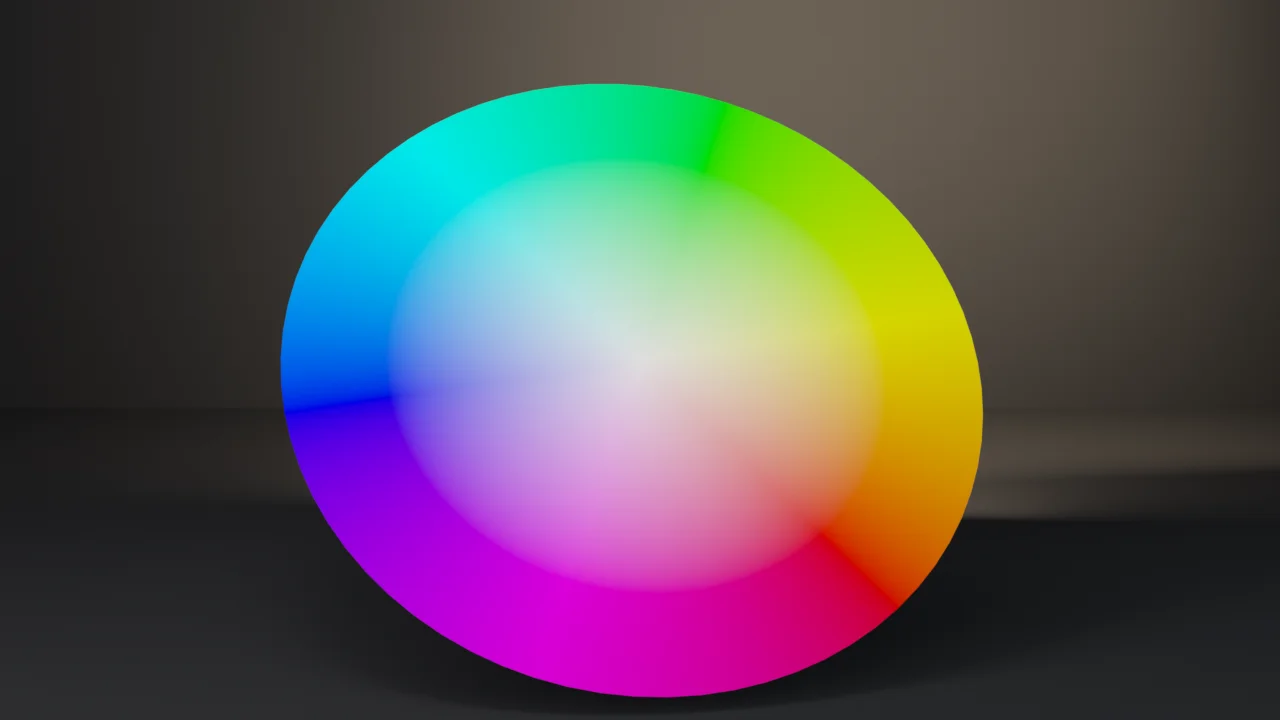
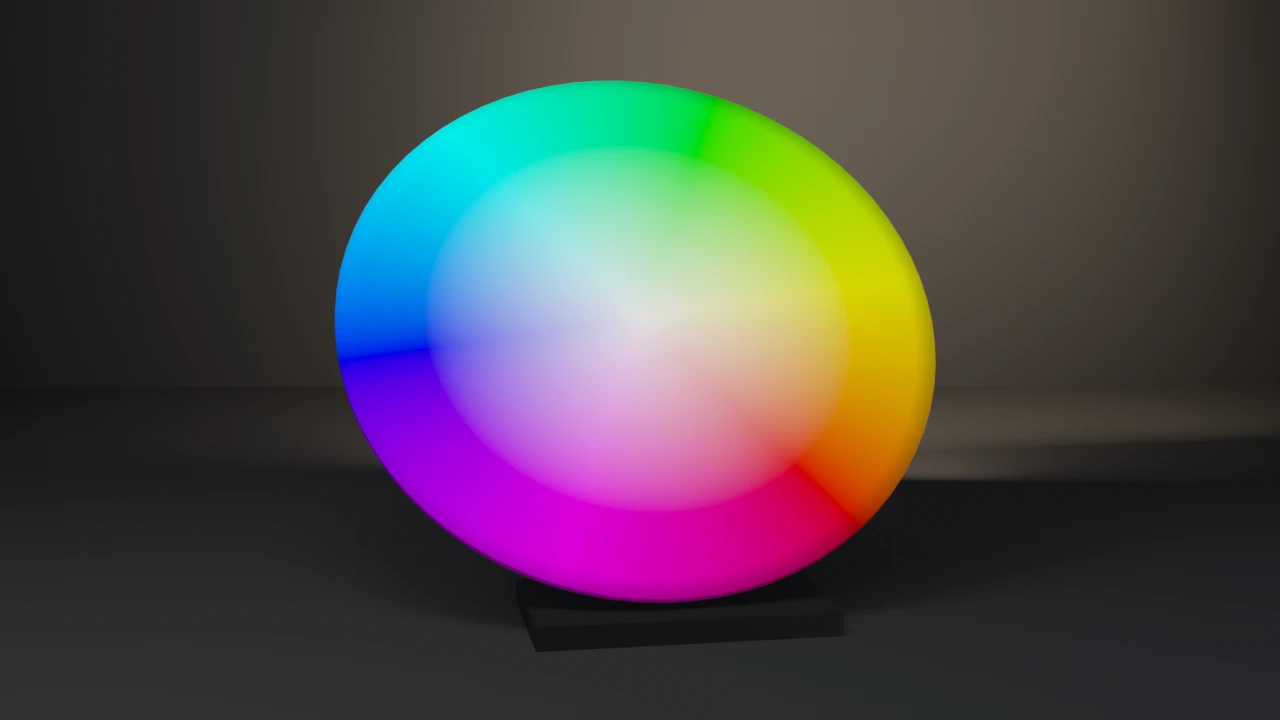
fix: color-attribute-wheel presentation, a board on a plinth
Render path only: the zero-thickness disc gets a Solidify body and rests
on a plinth with a strut, instead of hovering above the floor. Contract
and exit codes unchanged on 4.5.11, 5.1.2 and 5.2.1. Also regenerates the
gallery index for all four items.

diff --git a/docs/gallery/color-attribute-wheel/index.html b/docs/gallery/color-attribute-wheel/index.html
@@ -16,13 +16,13 @@
   <meta property="og:image" content="https://tmhsdigital.github.io/Blender-Developer-Tools/gallery/assets/color-attribute-wheel-hero.webp" />
   <meta property="og:image:width" content="1280" />
   <meta property="og:image:height" content="720" />
-  <meta property="og:image:alt" content="A disc painted with a full hue wheel that fades to white at the centre." />
+  <meta property="og:image:alt" content="A board painted with a full hue wheel that fades to white at the centre, leaning on a dark plinth." />
   <meta property="og:site_name" content="Blender Developer Tools" />
   <meta name="twitter:card" content="summary_large_image" />
   <meta name="twitter:title" content="color-attribute-wheel — Examples — Blender Developer Tools" />
   <meta name="twitter:description" content="The modern color-attributes API — mesh.color_attributes.new() on the CORNER domain, filled by expanding per-vertex HSV across face corners with foreach_get/foreach_set, then wired into a shader Attribute node." />
   <meta name="twitter:image" content="https://tmhsdigital.github.io/Blender-Developer-Tools/gallery/assets/color-attribute-wheel-hero.webp" />
-  <meta name="twitter:image:alt" content="A disc painted with a full hue wheel that fades to white at the centre." />
+  <meta name="twitter:image:alt" content="A board painted with a full hue wheel that fades to white at the centre, leaning on a dark plinth." />
   <style>
     /* fonts are deployed by the landing build (docs/fonts/) */
     @font-face { font-family: 'Barlow Condensed'; font-weight: 600; font-display: swap;
@@ -268,8 +268,8 @@
     <p>The modern color-attributes API — mesh.color_attributes.new() on the CORNER domain, filled by expanding per-vertex HSV across face corners with foreach_get/foreach_set, then wired into a shader Attribute node.</p>
   </header>
   <main id="main">
-    <button class="detail-hero" id="heroZoom" type="button" aria-label="View full size: A disc painted with a full hue wheel that fades to white at the centre.">
-      <img src="../assets/color-attribute-wheel-hero.webp" alt="A disc painted with a full hue wheel that fades to white at the centre." width="1280" height="720" />
+    <button class="detail-hero" id="heroZoom" type="button" aria-label="View full size: A board painted with a full hue wheel that fades to white at the centre, leaning on a dark plinth.">
+      <img src="../assets/color-attribute-wheel-hero.webp" alt="A board painted with a full hue wheel that fades to white at the centre, leaning on a dark plinth." width="1280" height="720" />
     </button>
     <p class="zoom-hint">Rendered headless by the example itself — click to zoom.</p>
     <div class="callout"><span class="tag">witnesses</span> CORNER-domain attributes are sized to loop count, not vertex count; the check asserts the sizing, that active_color points at it, and that the Attribute node is actually linked to Base Color, not just present.</div>
@@ -280,6 +280,8 @@
     <section class="detail-section md">
 <p>A runnable example that builds an HSV color wheel disc entirely with <code>bmesh</code> and colors it with <code>Mesh.color_attributes.new()</code> — the modern attributes API, not the deprecated <code>Mesh.vertex_colors</code> alias AI code keeps reaching for. It witnesses the domain trap that comes with it: a <code>CORNER</code>-domain attribute is sized to <code>len(mesh.loops)</code>, not <code>len(mesh.vertices)</code>, so per-vertex data has to be expanded across face corners before it is written. The material wires the same attribute into a Shader <code>Attribute</code> node (<code>attribute_type=&#x27;GEOMETRY&#x27;</code>) feeding Base Color — the step AI code most often skips, leaving the mesh gray even when the attribute data is correct.</p>
 <p><strong>What it witnesses:</strong> a <code>FLOAT_COLOR</code> attribute on the <code>CORNER</code> domain, filled with one <code>foreach_get</code> (loop → vertex index) and one <code>foreach_set</code> (loop color), never a per-loop Python assignment. The check asserts the attribute is sized to the loop count and <em>not</em> the vertex count, that it is <code>color_attributes.active_color</code> (so a renderer or exporter actually picks it up), and that several probe loops match the closed-form HSV value for the vertex they reference. A separate check in the render path confirms the <code>Attribute</code> node is actually linked to Base Color, not just present in the node tree.</p>
+<h2>Staging</h2>
+<p>The disc is zero-thickness, and the still used to show it as a paper-thin oval hovering 8 cm above the floor. The render path now gives it a render-only Solidify body (5 cm) and stands it at the same 52° lean on a dark plinth, with a strut behind it, easel-style. The height is computed so the lowest point of the rim rests on the plinth. The mesh <code>check()</code> asserts is unchanged: the modifier is added after the check and only in the render path. Measured framing on 5.2.1: fill 0.794 y, every margin ≥ 0.094.</p>
 <h2>Run</h2>
 <pre><code># Cheap correctness check (no render) — the CI check:
 blender --background --python color_attribute_wheel.py --
@@ -326,6 +328,7 @@ check. Pass --output to also render a still:
 &quot;&quot;&quot;</span>
 <span class="k">import</span> bpy, bmesh, sys, os, math, colorsys, argparse
 <span class="k">from</span> array <span class="k">import</span> array
+<span class="k">from</span> mathutils <span class="k">import</span> Vector
 
 RINGS = <span class="n">14</span>
 SEGMENTS = <span class="n">72</span>
@@ -500,8 +503,54 @@ ATTR_NAME = <span class="s">&quot;Hue&quot;</span>
     <span class="c"># stand the disc up toward the camera like an easel: the wheel is the</span>
     <span class="c"># subject, so it should present nearly face-on and fill the frame instead</span>
     <span class="c"># of lying foreshortened on the floor.</span>
-    obj.location = (<span class="n">0.0</span>, <span class="n">0.0</span>, <span class="n">1.34</span>)
-    obj.rotation_euler = (math.radians(<span class="n">52</span>), <span class="n">0.0</span>, math.radians(<span class="n">10</span>))
+    <span class="c"># render-only: a Solidify body so the disc reads as a painted board, not</span>
+    <span class="c"># a zero-thickness sheet, resting on a dark plinth and propped from</span>
+    <span class="c"># behind by a strut, easel-style, instead of hovering above the floor.</span>
+    disc_t = <span class="n">0.05</span>
+    plinth_h = <span class="n">0.12</span>
+    tilt = math.radians(<span class="n">52</span>)
+    solid = obj.modifiers.new(<span class="s">&quot;Board&quot;</span>, <span class="s">&#x27;SOLIDIFY&#x27;</span>)
+    solid.thickness = disc_t
+    solid.offset = -<span class="n">1.0</span>
+    <span class="c"># lowest rim point sits R_OUTER * sin(tilt) below the centre, and the</span>
+    <span class="c"># board&#x27;s back face another disc_t * cos(tilt) below that</span>
+    obj.location = (<span class="n">0.0</span>, <span class="n">0.0</span>, plinth_h + R_OUTER * math.sin(tilt) + disc_t * math.cos(tilt))
+    obj.rotation_euler = (tilt, <span class="n">0.0</span>, math.radians(<span class="n">10</span>))
+
+    stand_mat = bpy.data.materials.new(<span class="s">&quot;Stand&quot;</span>)
+    stand_mat.use_nodes = <span class="k">True</span>
+    sb = stand_mat.node_tree.nodes[<span class="s">&quot;Principled BSDF&quot;</span>]
+    sb.inputs[<span class="s">&quot;Base Color&quot;</span>].default_value = (<span class="n">0.012</span>, <span class="n">0.012</span>, <span class="n">0.014</span>, <span class="n">1.0</span>)
+    sb.inputs[<span class="s">&quot;Roughness&quot;</span>].default_value = <span class="n">0.45</span>
+
+    <span class="k">def</span> stand_part(name, build):
+        me = bpy.data.meshes.new(name)
+        bm = bmesh.new()
+        <span class="k">try</span>:
+            build(bm)
+            bm.to_mesh(me)
+        <span class="k">finally</span>:
+            bm.free()
+        me.materials.append(stand_mat)
+        ob = bpy.data.objects.new(name, me)
+        scene.collection.objects.link(ob)
+        <span class="k">return</span> ob
+
+    bpy.context.view_layer.update()
+    mw = obj.matrix_world
+    rim_low = mw @ Vector((<span class="n">0.0</span>, -R_OUTER, <span class="n">0.0</span>))
+    plinth = stand_part(<span class="s">&quot;Plinth&quot;</span>, <span class="k">lambda</span> bm: bmesh.ops.create_cube(bm, size=<span class="n">1.0</span>))
+    plinth.scale = (<span class="n">1.5</span>, <span class="n">0.9</span>, plinth_h)
+    plinth.location = (rim_low.x, rim_low.y + <span class="n">0.25</span>, plinth_h / <span class="n">2.0</span>)
+    plinth.rotation_euler = (<span class="n">0.0</span>, <span class="n">0.0</span>, math.radians(<span class="n">10</span>))
+    <span class="c"># the strut runs from the board&#x27;s back, above centre, down to the plinth</span>
+    top = mw @ Vector((<span class="n">0.0</span>, <span class="n">0.45</span>, -disc_t))
+    foot = Vector((top.x, top.y + <span class="n">0.95</span>, plinth_h))
+    span = top - foot
+    strut = stand_part(<span class="s">&quot;Strut&quot;</span>, <span class="k">lambda</span> bm: bmesh.ops.create_cone(
+        bm, cap_ends=<span class="k">True</span>, segments=<span class="n">16</span>, radius1=<span class="n">0.035</span>, radius2=<span class="n">0.035</span>, depth=span.length))
+    strut.location = (top + foot) / <span class="n">2.0</span>
+    strut.rotation_euler = Vector((<span class="n">0.0</span>, <span class="n">0.0</span>, <span class="n">1.0</span>)).rotation_difference(span).to_euler()
 
     floor_me = bpy.data.meshes.new(<span class="s">&quot;Floor&quot;</span>)
     bm = bmesh.new()
@@ -550,13 +599,13 @@ ATTR_NAME = <span class="s">&quot;Hue&quot;</span>
     light(<span class="s">&quot;Wedge&quot;</span>, (<span class="n">2.0</span>, <span class="n">5.2</span>, <span class="n">3.6</span>), <span class="n">220.0</span>, <span class="n">6.0</span>, (<span class="n">1.0</span>, <span class="n">0.76</span>, <span class="n">0.5</span>), (-<span class="n">68</span>, <span class="n">0</span>, <span class="n">190</span>))
 
     aim = bpy.data.objects.new(<span class="s">&quot;Aim&quot;</span>, <span class="k">None</span>)
-    aim.location = obj.location
+    aim.location = obj.location - Vector((<span class="n">0.0</span>, <span class="n">0.0</span>, <span class="n">0.2</span>))
     scene.collection.objects.link(aim)
 
     cam_data = bpy.data.cameras.new(<span class="s">&quot;Cam&quot;</span>)
     cam_data.lens = <span class="n">50.0</span>
     cam = bpy.data.objects.new(<span class="s">&quot;Cam&quot;</span>, cam_data)
-    cam.location = (<span class="n">0.0</span>, -<span class="n">8.0</span>, <span class="n">2.4</span>)
+    cam.location = (<span class="n">0.0</span>, -<span class="n">9.4</span>, <span class="n">2.5</span>)
     con = cam.constraints.new(<span class="s">&#x27;TRACK_TO&#x27;</span>)
     con.target = aim
     con.track_axis = <span class="s">&#x27;TRACK_NEGATIVE_Z&#x27;</span>
@@ -618,7 +667,7 @@ ATTR_NAME = <span class="s">&quot;Hue&quot;</span>
   </main>
   <dialog class="lightbox" id="lightbox" aria-label="Full-size render">
     <button class="lightbox-close" type="button" autofocus>Close</button>
-    <img src="../assets/color-attribute-wheel-hero.webp" alt="A disc painted with a full hue wheel that fades to white at the centre." />
+    <img src="../assets/color-attribute-wheel-hero.webp" alt="A board painted with a full hue wheel that fades to white at the centre, leaning on a dark plinth." />
   </dialog>
   <footer>
     <div class="statusbar">

diff --git a/docs/gallery/index.html b/docs/gallery/index.html
@@ -387,7 +387,7 @@
       </article>
       <article class="card" data-tags="mesh performance">
         <a class="card-media" href="wave-displace/" tabindex="-1" aria-hidden="true">
-          <img src="assets/wave-displace-hero.webp" alt="A blue grid surface displaced into rolling sine-wave hills." loading="lazy" decoding="async" />
+          <img src="assets/wave-displace-hero.webp" alt="A blue tile whose top is a grid displaced into rolling sine-wave hills, standing on a dark studio floor." loading="lazy" decoding="async" />
         </a>
         <div class="card-body">
           <h2><a href="wave-displace/">wave-displace</a></h2>
@@ -508,7 +508,7 @@
       </article>
       <article class="card" data-tags="mesh materials attributes">
         <a class="card-media" href="color-attribute-wheel/" tabindex="-1" aria-hidden="true">
-          <img src="assets/color-attribute-wheel-hero.webp" alt="A disc painted with a full hue wheel that fades to white at the centre." loading="lazy" decoding="async" />
+          <img src="assets/color-attribute-wheel-hero.webp" alt="A board painted with a full hue wheel that fades to white at the centre, leaning on a dark plinth." loading="lazy" decoding="async" />
         </a>
         <div class="card-body">
           <h2><a href="color-attribute-wheel/">color-attribute-wheel</a></h2>
@@ -926,12 +926,12 @@
       </article>
       <article class="card" data-tags="mesh export showcase">
         <a class="card-media" href="wooden-barrel/" tabindex="-1" aria-hidden="true">
-          <img src="assets/wooden-barrel-hero.webp" alt="A wooden stave barrel bound by three metal hoops." loading="lazy" decoding="async" />
+          <img src="assets/wooden-barrel-hero.webp" alt="A wooden stave barrel bound by four iron hoops, its head made of boards." loading="lazy" decoding="async" />
         </a>
         <div class="card-body">
           <h2><a href="wooden-barrel/">wooden-barrel</a></h2>
-          <p class="teaches">A procedural wine-cask with croze-seated heads and chord-lofted hoops through UVs, bake, LOD, collider, and Unity glTF, asserting recomputed budgets rather than an API contract.</p>
-          <p class="witnesses"><span class="tag">witnesses</span> Recomputed: 7216 tris, two materials with 2512 wood and 1440 metal faces, UVs in 0..1 with zero AABB overlap, outer AABB 0.722×0.714×0.880 m, 20 grounded staves, hoop bite 0.003 m, head-croze gap 0.007 m, LOD ratios in band, convex collider 238 tris, non-empty glTF. --skip-decimate exits 9; --round-band exits 18 on the hoop-seat budget.</p>
+          <p class="teaches">A procedural wine-cask with boarded, croze-seated heads and chord-lofted hoops through UVs, bake, LOD, collider, and Unity glTF, asserting recomputed budgets rather than an API contract.</p>
+          <p class="witnesses"><span class="tag">witnesses</span> Recomputed: 7312 tris, two materials with 2584 wood and 1440 metal faces, UVs in 0..1 with zero AABB overlap, outer AABB 0.722×0.714×0.880 m, 20 grounded staves, hoop bite 0.003 m, head-croze gap 0.007 m, four boards per head with 1.5 mm seams, LOD ratios in band, convex collider 238 tris, non-empty glTF. --skip-decimate exits 9; --round-band exits 18 on the hoop-seat budget; --one-piece-head exits 17 on the head-board budget.</p>
           <a class="card-link" href="wooden-barrel/">View showcase piece<span class="sr-only"> wooden-barrel</span> <span aria-hidden="true">&rarr;</span></a>
         </div>
       </article>
@@ -1124,12 +1124,12 @@
       </article>
       <article class="card" data-tags="mesh export showcase">
         <a class="card-media" href="wooden-bucket/" tabindex="-1" aria-hidden="true">
-          <img src="assets/wooden-bucket-hero.webp" alt="A wooden stave bucket with metal hoops and a curved wooden bail handle." loading="lazy" decoding="async" />
+          <img src="assets/wooden-bucket-hero.webp" alt="A wooden stave bucket with three iron hoops and a twisted rope handle through iron ear rings." loading="lazy" decoding="async" />
         </a>
         <div class="card-body">
           <h2><a href="wooden-bucket/">wooden-bucket</a></h2>
-          <p class="teaches">A procedural coopered pail with a croze-seated floor, chord-lofted hoops, and a round bail through the ear rings through UVs, bake, LOD, collider, and Unity glTF, asserting recomputed budgets rather than an API contract.</p>
-          <p class="witnesses"><span class="tag">witnesses</span> Recomputed: 4872 tris, three materials with 1424 wood, 1020 metal, and 208 rope faces, UVs in 0..1 with zero AABB overlap, outer AABB 0.383×0.346×0.527 m, 16 grounded staves, hoop bite 0.0025 m, bail-ear gap 0.0013 m, LOD ratios in band, convex collider 302 tris, non-empty glTF. --skip-decimate exits 9; --float-handle exits 17 on the bail-ear budget.</p>
+          <p class="teaches">A procedural coopered pail with a boarded, croze-seated floor, chord-lofted hoops, and a three-strand rope bail through the ear rings through UVs, bake, LOD, collider, and Unity glTF, asserting recomputed budgets rather than an API contract.</p>
+          <p class="witnesses"><span class="tag">witnesses</span> Recomputed: 5458 tris, three materials with 1448 wood, 1020 metal, and 486 rope faces, UVs in 0..1 with zero AABB overlap, outer AABB 0.396×0.346×0.534 m, 16 grounded staves, hoop bite 0.0025 m, bail-ear gap 0.0011 m, three bottom boards, no rope vertex inside an ear plate, LOD ratios in band, convex collider 276 tris, non-empty glTF. --skip-decimate exits 9; --float-handle exits 17 on the bail-ear budget; --sunk-rope exits 17 on the rope-clearance budget.</p>
           <a class="card-link" href="wooden-bucket/">View showcase piece<span class="sr-only"> wooden-bucket</span> <span aria-hidden="true">&rarr;</span></a>
         </div>
       </article>

diff --git a/examples/color-attribute-wheel/color_attribute_wheel.py b/examples/color-attribute-wheel/color_attribute_wheel.py
@@ -23,6 +23,7 @@ check. Pass --output to also render a still:
 """
 import bpy, bmesh, sys, os, math, colorsys, argparse
 from array import array
+from mathutils import Vector
 
 RINGS = 14
 SEGMENTS = 72
@@ -197,8 +198,54 @@ def render_still(obj, path, engine):
     # stand the disc up toward the camera like an easel: the wheel is the
     # subject, so it should present nearly face-on and fill the frame instead
     # of lying foreshortened on the floor.
-    obj.location = (0.0, 0.0, 1.34)
-    obj.rotation_euler = (math.radians(52), 0.0, math.radians(10))
+    # render-only: a Solidify body so the disc reads as a painted board, not
+    # a zero-thickness sheet, resting on a dark plinth and propped from
+    # behind by a strut, easel-style, instead of hovering above the floor.
+    disc_t = 0.05
+    plinth_h = 0.12
+    tilt = math.radians(52)
+    solid = obj.modifiers.new("Board", 'SOLIDIFY')
+    solid.thickness = disc_t
+    solid.offset = -1.0
+    # lowest rim point sits R_OUTER * sin(tilt) below the centre, and the
+    # board's back face another disc_t * cos(tilt) below that
+    obj.location = (0.0, 0.0, plinth_h + R_OUTER * math.sin(tilt) + disc_t * math.cos(tilt))
+    obj.rotation_euler = (tilt, 0.0, math.radians(10))
+
+    stand_mat = bpy.data.materials.new("Stand")
+    stand_mat.use_nodes = True
+    sb = stand_mat.node_tree.nodes["Principled BSDF"]
+    sb.inputs["Base Color"].default_value = (0.012, 0.012, 0.014, 1.0)
+    sb.inputs["Roughness"].default_value = 0.45
+
+    def stand_part(name, build):
+        me = bpy.data.meshes.new(name)
+        bm = bmesh.new()
+        try:
+            build(bm)
+            bm.to_mesh(me)
+        finally:
+            bm.free()
+        me.materials.append(stand_mat)
+        ob = bpy.data.objects.new(name, me)
+        scene.collection.objects.link(ob)
+        return ob
+
+    bpy.context.view_layer.update()
+    mw = obj.matrix_world
+    rim_low = mw @ Vector((0.0, -R_OUTER, 0.0))
+    plinth = stand_part("Plinth", lambda bm: bmesh.ops.create_cube(bm, size=1.0))
+    plinth.scale = (1.5, 0.9, plinth_h)
+    plinth.location = (rim_low.x, rim_low.y + 0.25, plinth_h / 2.0)
+    plinth.rotation_euler = (0.0, 0.0, math.radians(10))
+    # the strut runs from the board's back, above centre, down to the plinth
+    top = mw @ Vector((0.0, 0.45, -disc_t))
+    foot = Vector((top.x, top.y + 0.95, plinth_h))
+    span = top - foot
+    strut = stand_part("Strut", lambda bm: bmesh.ops.create_cone(
+        bm, cap_ends=True, segments=16, radius1=0.035, radius2=0.035, depth=span.length))
+    strut.location = (top + foot) / 2.0
+    strut.rotation_euler = Vector((0.0, 0.0, 1.0)).rotation_difference(span).to_euler()
 
     floor_me = bpy.data.meshes.new("Floor")
     bm = bmesh.new()
@@ -247,13 +294,13 @@ def render_still(obj, path, engine):
     light("Wedge", (2.0, 5.2, 3.6), 220.0, 6.0, (1.0, 0.76, 0.5), (-68, 0, 190))
 
     aim = bpy.data.objects.new("Aim", None)
-    aim.location = obj.location
+    aim.location = obj.location - Vector((0.0, 0.0, 0.2))
     scene.collection.objects.link(aim)
 
     cam_data = bpy.data.cameras.new("Cam")
     cam_data.lens = 50.0
     cam = bpy.data.objects.new("Cam", cam_data)
-    cam.location = (0.0, -8.0, 2.4)
+    cam.location = (0.0, -9.4, 2.5)
     con = cam.constraints.new('TRACK_TO')
     con.target = aim
     con.track_axis = 'TRACK_NEGATIVE_Z'

diff --git a/README.md b/README.md
@@ -257,7 +257,7 @@ the compositor on and is exactly zero with it off — and that EEVEE has no `use
 </tr>
 <tr>
 <td width="46%" valign="middle">
-<a href="examples/color-attribute-wheel/"><img src="examples/color-attribute-wheel/preview.webp" alt="Color attribute wheel: an HSV color wheel disc with a white center fading into a vivid rainbow rim, leaning upright toward the camera on a dark studio floor with a warm light pool behind it" /></a>
+<a href="examples/color-attribute-wheel/"><img src="examples/color-attribute-wheel/preview.webp" alt="Color attribute wheel: an HSV color wheel board with a white center fading into a vivid rainbow rim, leaning back on a dark plinth on a dark studio floor with a warm light pool behind it" /></a>
 </td>
 <td valign="middle">
 

diff --git a/examples/color-attribute-wheel/README.md b/examples/color-attribute-wheel/README.md
@@ -19,6 +19,16 @@ match the closed-form HSV value for the vertex they reference. A separate check
 in the render path confirms the `Attribute` node is actually linked to Base
 Color, not just present in the node tree.
 
+## Staging
+
+The disc is zero-thickness, and the still used to show it as a paper-thin oval
+hovering 8 cm above the floor. The render path now gives it a render-only
+Solidify body (5 cm) and stands it at the same 52° lean on a dark plinth, with
+a strut behind it, easel-style. The height is computed so the lowest point of
+the rim rests on the plinth. The mesh `check()` asserts is unchanged: the
+modifier is added after the check and only in the render path. Measured
+framing on 5.2.1: fill 0.794 y, every margin ≥ 0.094.
+
 ## Run
 
 ```bash
